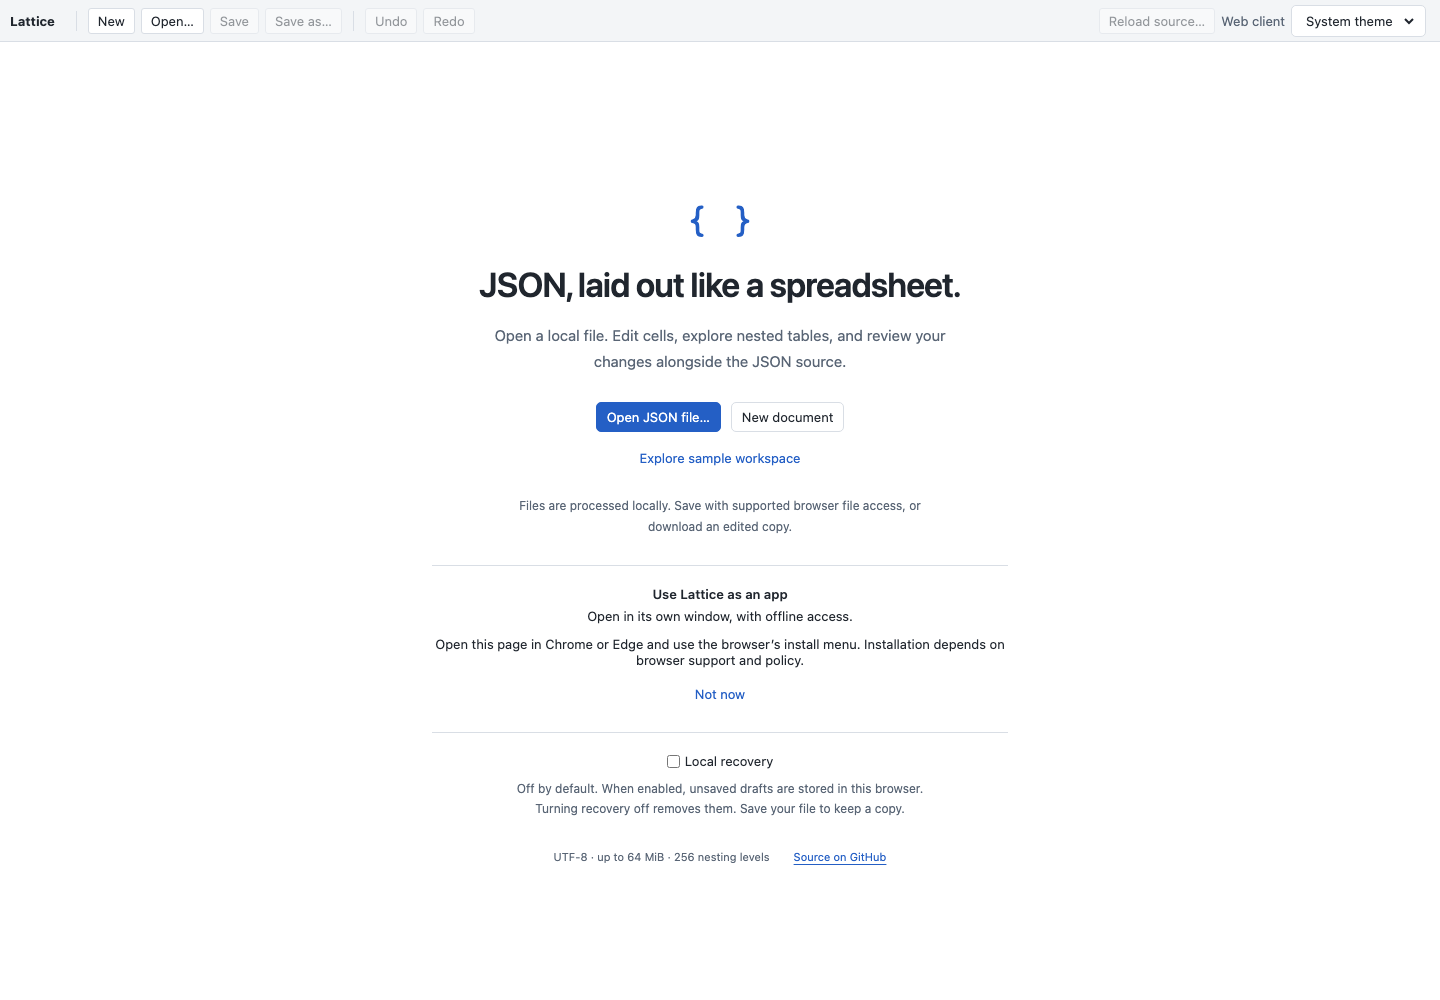
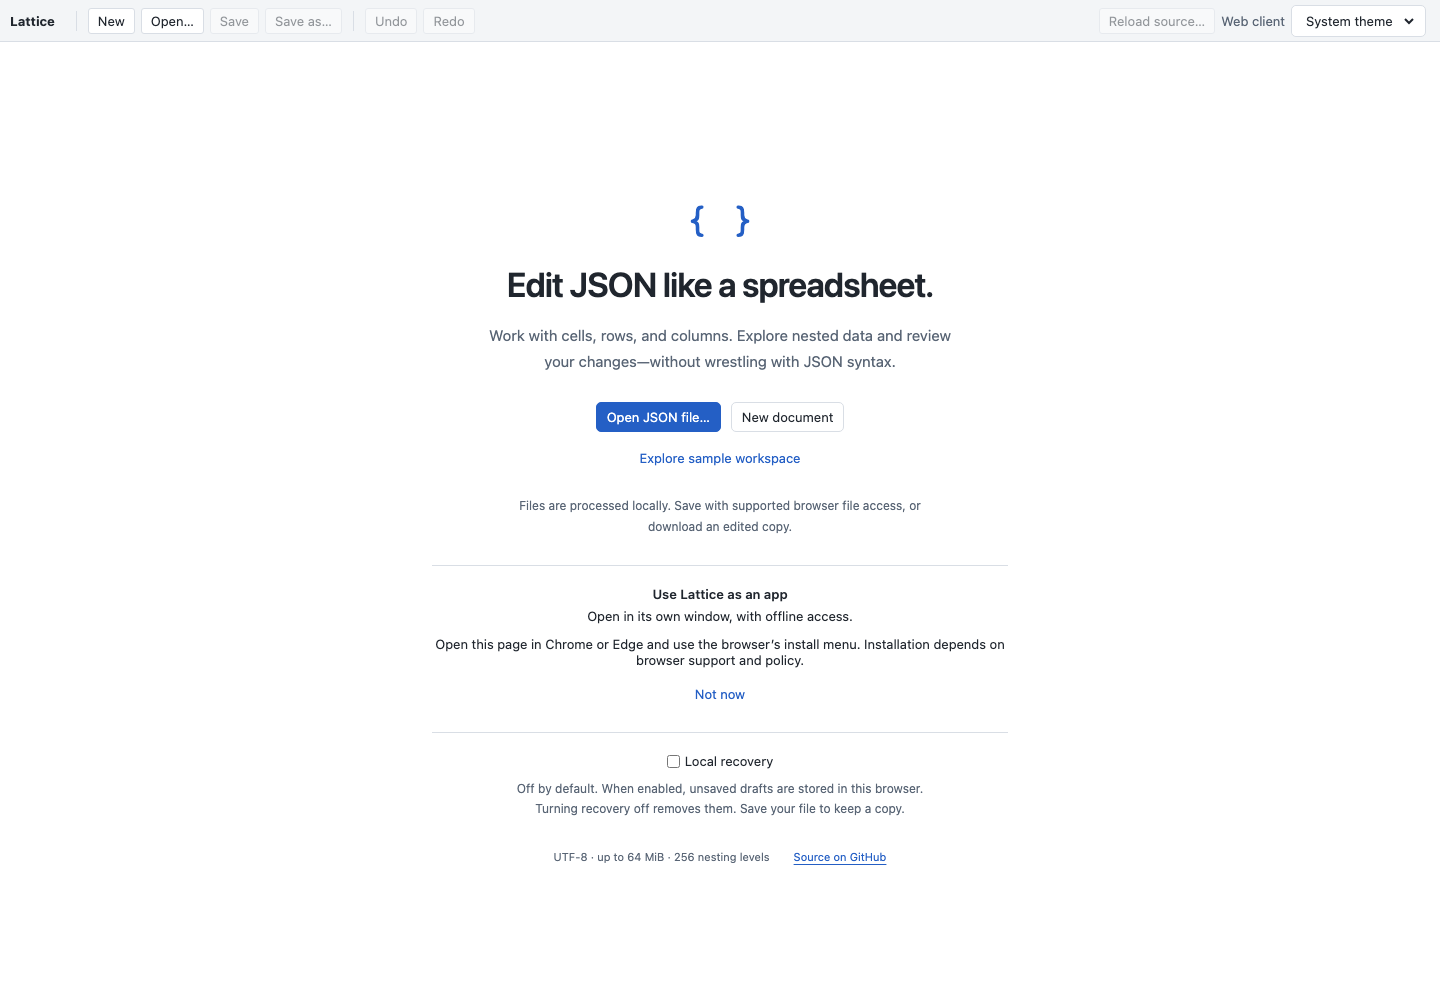
Clarify the homepage headline and description

Changed region(s): [[0.3125, 0.248, 0.6875, 0.372]]

diff --git a/src/HomeScreen.tsx b/src/HomeScreen.tsx
@@ -25,10 +25,10 @@ export function HomeScreen({
       <div className="home-screen-symbol" aria-hidden="true">
         {"{ }"}
       </div>
-      <h1>JSON, laid out like a spreadsheet.</h1>
+      <h1>Edit JSON like a spreadsheet.</h1>
       <p className="home-screen-description">
-        Open a local file. Edit cells, explore nested tables, and review your
-        changes alongside the JSON source.
+        Work with cells, rows, and columns. Explore nested data and review your
+        changes—without wrestling with JSON syntax.
       </p>
       <div className="home-screen-actions">
         <button className="primary" disabled={busy} onClick={onOpen}>

diff --git a/README.md b/README.md
@@ -1,6 +1,6 @@
 # Lattice — JSON Workbench
 
-JSON, laid out like a spreadsheet. Open a local file, edit cells and nested tables, then review the source changes.
+Edit JSON like a spreadsheet. Work with cells, rows, and columns. Explore nested data and review your changes—without wrestling with JSON syntax.
 
 [Open Lattice](https://arsxd.github.io/lattice/) · [Download offline HTML](https://github.com/arsxd/lattice/releases/download/v0.1.10/Lattice-Offline.html) · [Releases](https://github.com/arsxd/lattice/releases)
 
